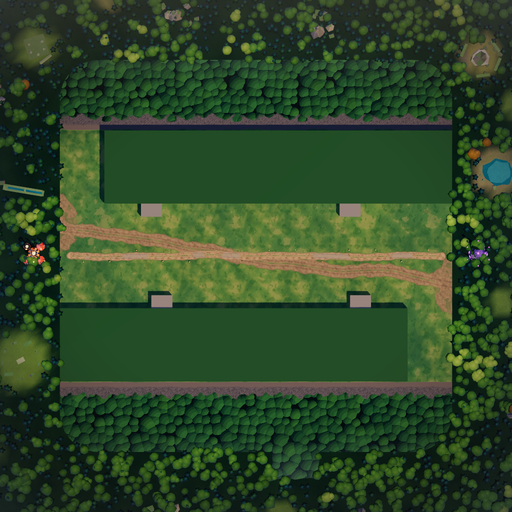
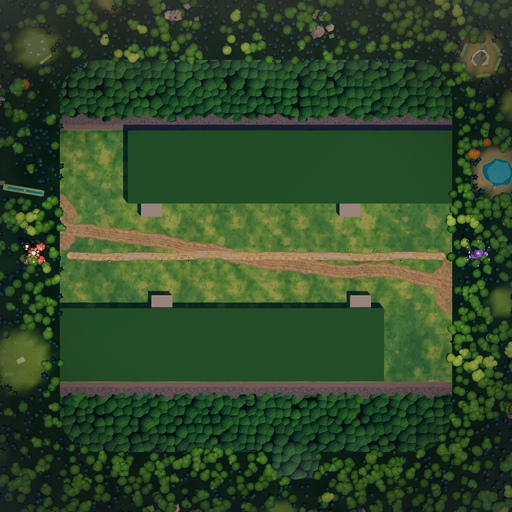
Ashwind Reach: Muster Pad clearing 28 x 34 m per seat (forest blocks trimmed, symmetry kept); Map Lab 97 / 0 FAIL; test_ws3_m1 checks tree jitter + canopy clearance

Changed region(s): [[0.1875, 0.2188, 0.25, 0.4062], [0.75, 0.5625, 0.8125, 0.75]]

diff --git a/docs/tools/world_forge/out/ashwind_reach/map_lab/scorecard.md b/docs/tools/world_forge/out/ashwind_reach/map_lab/scorecard.md
@@ -1,22 +1,22 @@
 # Map Lab: Ashwind Reach scorecard: world_forge_ashwind_reach
 
-2026-10-13 21:22 · lab v1.0 · 1.64 s · scanned 2 spots
+2026-10-13 22:42 · lab v1.0 · 1.61 s · scanned 2 spots
 
 ## Result: **WARN** · score **97 / 100**
 
-0 FAIL · 1 WARN · 14 PASS · 6 info checks; findings: 0 FAIL, 16 WARN, 5 info
+0 FAIL · 1 WARN · 14 PASS · 6 info checks; findings: 0 FAIL, 14 WARN, 6 info
 
 ## Improve next
-1. **No navmesh islands** (WARN): island 3 at (-86.9, -33.9): 448.1 m² of ground-level navmesh cut off from the main area (y 0.50) -> a pocket closed by colliders: widen its gap or fill it (trees / rocks) (close or open the pocket) _(from N3 2 / 18 clean (0 FAIL, 16 WARN), 3 info)_
+1. **No navmesh islands** (WARN): island 3 at (-91.9, -33.9): 180.6 m² of ground-level navmesh cut off from the main area (y 0.50) -> a pocket closed by colliders: widen its gap or fill it (trees / rocks) (close or open the pocket) _(from N3 2 / 16 clean (0 FAIL, 14 WARN), 3 info)_
 2. **Open the heat map** (IDEA): heatmap.png shows where the shortest paths crowd: the red metres are the likely fights _(from H1)_
 3. **Combat heat from bot games** (IDEA): v2: feed Bot Lab / Replay Lab unit deaths into the heat map _(from lab idea)_
 
 ## Navmesh (reachability, islands)
 | # | Check | Result | Measured | Rule | Fix hint |
 |---|---|---|---|---|---|
-| N1 | Navmesh baked | PASS 100 | 155 polygons, main area 7699 m² (21 % of the 192 m map), ground y 0.50 | polygons > 0; main walkable area shown |  |
+| N1 | Navmesh baked | PASS 100 | 147 polygons, main area 8768 m² (24 % of the 192 m map), ground y 0.50 | polygons > 0; main walkable area shown |  |
 | N2 | Every spot reachable | PASS 100 | 2 / 2 clean | a path from the first keep ends within 1.0 m of each spot; spot <= 6 m from the navmesh |  |
-| N3 | No navmesh islands | **WARN** 39 | 2 / 18 clean (0 FAIL, 16 WARN), 3 info | ground-level components other than the main one < 2 m² | close or open the pocket |
+| N3 | No navmesh islands | **WARN** 39 | 2 / 16 clean (0 FAIL, 14 WARN), 3 info | ground-level components other than the main one < 2 m² | close or open the pocket |
 | R5 | Engine limits | PASS 100 | 0 half widths ok, 0 arms ok, 0 circles ok, 0 segments ok, 192 x 96 m ok, 2 spots ok, 1.28x ok | one half width, <= 2 arms, <= 4 circles, <= 16 segments, <= 192 m, <= 140 spots, raster <= 2.5x CH |  |
 | R6 | Mission marks / triggers / paths reachable | PASS 100 | 5 / 5 clean | every mark, trigger centre and path point reachable from the player's keep; spawns > 20 m from it |  |
 
@@ -26,7 +26,7 @@
 | M1 | Every live spot has its mirror twins | PASS 100 | 2 / 2 clean | same kind within 1.0 m of each symmetry image |  |
 | M4 | Spots meet the navmesh at mirrored points | PASS 100 | 2 / 2 clean | each spot's navmesh point vs its twin's, mirrored back: <= 1 m |  |
 | M2 | Spot constants mirror | PASS 100 | 0 / 0 clean | every position constant of preview_level.gd: all entries have a twin under each symmetry (+-0.05 m) with the same kind / sizes / timings, or the list is one-sided (mirrored in code) |  |
-| M3 | Navmesh mirrors itself | PASS 100 | 0.03 % (40 cells) | cells walkable on one side only (1-cell edge noise ignored): WARN > 0.3 %, FAIL > 2 % |  |
+| M3 | Navmesh mirrors itself | PASS 100 | 0.04 % (54 cells) | cells walkable on one side only (1-cell edge noise ignored): WARN > 0.3 %, FAIL > 2 % |  |
 
 ## Path fairness (navmesh path lengths between every pair of spots)
 | # | Check | Result | Measured | Rule | Fix hint |
@@ -59,28 +59,26 @@
 ## Findings (FAIL and WARN)
 | Sev | Check | Where | What | Fix |
 |---|---|---|---|---|
-| WARN | N3 | island 3 at (-86.9, -33.9) | 448.1 m² of ground-level navmesh cut off from the main area (y 0.50) | a pocket closed by colliders: widen its gap or fill it (trees / rocks) |
-| WARN | N3 | island 4 at (-52.9, -33.9) | 234.1 m² of ground-level navmesh cut off from the main area (y 0.50) | a pocket closed by colliders: widen its gap or fill it (trees / rocks) |
-| WARN | N3 | island 5 at (-23.9, -33.9) | 1250.6 m² of ground-level navmesh cut off from the main area (y 0.50) | a pocket closed by colliders: widen its gap or fill it (trees / rocks) |
-| WARN | N3 | island 6 at (24.1, -33.9) | 1250.6 m² of ground-level navmesh cut off from the main area (y 0.50) | a pocket closed by colliders: widen its gap or fill it (trees / rocks) |
-| WARN | N3 | island 7 at (72.1, -33.9) | 1250.6 m² of ground-level navmesh cut off from the main area (y 0.50) | a pocket closed by colliders: widen its gap or fill it (trees / rocks) |
-| WARN | N3 | island 8 at (-92.9, 0.1) | 184.1 m² of ground-level navmesh cut off from the main area (y 0.50) | a pocket closed by colliders: widen its gap or fill it (trees / rocks) |
-| WARN | N3 | island 9 at (-39.9, -17.4) | 25.3 m² of ground-level navmesh cut off from the main area (y 0.50) | a pocket closed by colliders: widen its gap or fill it (trees / rocks) |
-| WARN | N3 | island 10 at (36.1, -17.4) | 25.3 m² of ground-level navmesh cut off from the main area (y 0.50) | a pocket closed by colliders: widen its gap or fill it (trees / rocks) |
-| WARN | N3 | island 11 at (93.1, 0.1) | 184.1 m² of ground-level navmesh cut off from the main area (y 0.50) | a pocket closed by colliders: widen its gap or fill it (trees / rocks) |
-| WARN | N3 | island 16 at (-35.9, 17.6) | 25.3 m² of ground-level navmesh cut off from the main area (y 0.50) | a pocket closed by colliders: widen its gap or fill it (trees / rocks) |
-| WARN | N3 | island 17 at (40.1, 17.6) | 25.3 m² of ground-level navmesh cut off from the main area (y 0.50) | a pocket closed by colliders: widen its gap or fill it (trees / rocks) |
-| WARN | N3 | island 18 at (-71.9, 34.0) | 1238.9 m² of ground-level navmesh cut off from the main area (y 0.50) | a pocket closed by colliders: widen its gap or fill it (trees / rocks) |
-| WARN | N3 | island 19 at (-23.9, 34.0) | 1238.9 m² of ground-level navmesh cut off from the main area (y 0.50) | a pocket closed by colliders: widen its gap or fill it (trees / rocks) |
-| WARN | N3 | island 20 at (24.1, 34.0) | 1238.9 m² of ground-level navmesh cut off from the main area (y 0.50) | a pocket closed by colliders: widen its gap or fill it (trees / rocks) |
-| WARN | N3 | island 21 at (53.1, 34.0) | 231.9 m² of ground-level navmesh cut off from the main area (y 0.50) | a pocket closed by colliders: widen its gap or fill it (trees / rocks) |
-| WARN | N3 | island 22 at (87.1, 34.0) | 443.9 m² of ground-level navmesh cut off from the main area (y 0.50) | a pocket closed by colliders: widen its gap or fill it (trees / rocks) |
+| WARN | N3 | island 3 at (-91.9, -33.9) | 180.6 m² of ground-level navmesh cut off from the main area (y 0.50) | a pocket closed by colliders: widen its gap or fill it (trees / rocks) |
+| WARN | N3 | island 4 at (-24.4, -33.9) | 1277.3 m² of ground-level navmesh cut off from the main area (y 0.50) | a pocket closed by colliders: widen its gap or fill it (trees / rocks) |
+| WARN | N3 | island 5 at (24.1, -33.9) | 1250.6 m² of ground-level navmesh cut off from the main area (y 0.50) | a pocket closed by colliders: widen its gap or fill it (trees / rocks) |
+| WARN | N3 | island 6 at (72.1, -33.9) | 1250.6 m² of ground-level navmesh cut off from the main area (y 0.50) | a pocket closed by colliders: widen its gap or fill it (trees / rocks) |
+| WARN | N3 | island 7 at (-92.9, 0.1) | 184.1 m² of ground-level navmesh cut off from the main area (y 0.50) | a pocket closed by colliders: widen its gap or fill it (trees / rocks) |
+| WARN | N3 | island 8 at (-39.9, -17.4) | 25.3 m² of ground-level navmesh cut off from the main area (y 0.50) | a pocket closed by colliders: widen its gap or fill it (trees / rocks) |
+| WARN | N3 | island 9 at (36.1, -17.4) | 25.3 m² of ground-level navmesh cut off from the main area (y 0.50) | a pocket closed by colliders: widen its gap or fill it (trees / rocks) |
+| WARN | N3 | island 10 at (93.1, 0.1) | 184.1 m² of ground-level navmesh cut off from the main area (y 0.50) | a pocket closed by colliders: widen its gap or fill it (trees / rocks) |
+| WARN | N3 | island 15 at (-35.9, 17.6) | 25.3 m² of ground-level navmesh cut off from the main area (y 0.50) | a pocket closed by colliders: widen its gap or fill it (trees / rocks) |
+| WARN | N3 | island 16 at (40.1, 17.6) | 25.3 m² of ground-level navmesh cut off from the main area (y 0.50) | a pocket closed by colliders: widen its gap or fill it (trees / rocks) |
+| WARN | N3 | island 17 at (-71.9, 34.0) | 1238.9 m² of ground-level navmesh cut off from the main area (y 0.50) | a pocket closed by colliders: widen its gap or fill it (trees / rocks) |
+| WARN | N3 | island 18 at (-23.9, 34.0) | 1238.9 m² of ground-level navmesh cut off from the main area (y 0.50) | a pocket closed by colliders: widen its gap or fill it (trees / rocks) |
+| WARN | N3 | island 19 at (24.6, 34.0) | 1265.4 m² of ground-level navmesh cut off from the main area (y 0.50) | a pocket closed by colliders: widen its gap or fill it (trees / rocks) |
+| WARN | N3 | island 20 at (92.1, 34.0) | 178.9 m² of ground-level navmesh cut off from the main area (y 0.50) | a pocket closed by colliders: widen its gap or fill it (trees / rocks) |
 
 ## Spot navmesh points (half_turn)
 | Spot | Kind | Position | On navmesh at | Twin | Twin's point, mirrored back | Gap |
 |---|---|---|---|---|---|---|
-| keep_t0 | keep | (-84.0, 0.0) | (-82.4, -3.4) | keep_t1 | (-81.9, -3.6) | 0.6 |
-| keep_t1 | keep | (84.0, 0.0) | (81.9, 3.6) | keep_t0 | (82.4, 3.4) | 0.6 |
+| keep_t0 | keep | (-84.0, 0.0) | (-80.4, -0.1) | keep_t1 | (-80.4, -0.1) | 0.0 |
+| keep_t1 | keep | (84.0, 0.0) | (80.4, 0.1) | keep_t0 | (80.4, 0.1) | 0.0 |
 
 
 ## Spot constants (0)
@@ -91,55 +89,56 @@
 ## Keep to nearest spot by kind (navmesh path, m)
 | From keep | nearest expansion | nearest point | nearest camp | nearest lair | nearest tavern | nearest post | nearest peddler | nearest cache | nearest crown | enemy keep |
 |---|---|---|---|---|---|---|---|---|---|---|
-| west | - | - | - | - | - | - | - | - | - | 164.4 |
-| east | - | - | - | - | - | - | - | - | - | 164.4 |
+| west | - | - | - | - | - | - | - | - | - | 160.8 |
+| east | - | - | - | - | - | - | - | - | - | 160.8 |
 
 
 ## Every spot from the keeps (half_turn)
 | Spot | Kind | From keep_t0 | Twin | From keep_t1 | Diff |
 |---|---|---|---|---|---|
-| keep_t1 | keep | 164.4 | keep_t0 | 164.4 | +0.0 % |
+| keep_t1 | keep | 160.8 | keep_t0 | 160.8 | +0.0 % |
 
 
 ## Travel times per seat (m:ss from the keep; terrain speed costs not included)
 | Seat | Destination | Path (m) | Ford (m) | worker (4.6 m/s) | soldier (5.0 m/s) | cavalry (7.5 m/s) | caravan (4.0 m/s) |
 |---|---|---|---|---|---|---|---|
-| west | enemy keep (keep_t1) | 164.4 | 0.0 | 0:36 | 0:33 | 0:22 | 0:41 |
-| east | enemy keep (keep_t0) | 164.4 | 0.0 | 0:36 | 0:33 | 0:22 | 0:41 |
+| west | enemy keep (keep_t1) | 160.8 | 0.0 | 0:35 | 0:32 | 0:21 | 0:40 |
+| east | enemy keep (keep_t0) | 160.8 | 0.0 | 0:35 | 0:32 | 0:21 | 0:40 |
 
 
 ## Main routes: narrowest corridors (navmesh width; real gap ~ +1.0 m)
 | Route | Length | Narrowest (navmesh m) | At | Chokes < 3 m |
 |---|---|---|---|---|
-| keep_t0 -> keep_t1 | 164.4 | 28.8 | (-37.4, -1.5) | - |
+| keep_t0 -> keep_t1 | 160.8 | 28.8 | (-39.4, -0.1) | - |
 
 
 ## Hottest metres (every spot-pair shortest path, 1 paths)
 | # | Where (x, z) | Shortest paths through this metre | Share |
 |---|---|---|---|
-| 1 | (20.5, 1.5) | 1 | 100 % |
-| 2 | (28.5, 1.5) | 1 | 100 % |
-| 3 | (36.5, 1.5) | 1 | 100 % |
-| 4 | (-0.5, 0.5) | 1 | 100 % |
-| 5 | (7.5, 0.5) | 1 | 100 % |
-| 6 | (61.5, 2.5) | 1 | 100 % |
-| 7 | (69.5, 3.5) | 1 | 100 % |
-| 8 | (77.5, 3.5) | 1 | 100 % |
-| 9 | (44.5, 2.5) | 1 | 100 % |
-| 10 | (52.5, 2.5) | 1 | 100 % |
+| 1 | (20.5, 0.5) | 1 | 100 % |
+| 2 | (28.5, 0.5) | 1 | 100 % |
+| 3 | (36.5, 0.5) | 1 | 100 % |
+| 4 | (0.5, 0.5) | 1 | 100 % |
+| 5 | (8.5, 0.5) | 1 | 100 % |
+| 6 | (61.5, 0.5) | 1 | 100 % |
+| 7 | (69.5, 0.5) | 1 | 100 % |
+| 8 | (77.5, 0.5) | 1 | 100 % |
+| 9 | (44.5, 0.5) | 1 | 100 % |
+| 10 | (52.5, 0.5) | 1 | 100 % |
 
 
-## Info findings (5)
+## Info findings (6)
 | Check | Where | What |
 |---|---|---|
-| N3 | island 14 at (-83.9, 0.1) | 22.6 m² inside the footprint of keep_t0 (unreachable by design) |
-| N3 | island 15 at (84.1, 0.1) | 22.6 m² inside the footprint of keep_t1 (unreachable by design) |
-| N3 | raised islands | 4 islands on top of colliders (444 m², more than 0.3 m above / below the ground navmesh): harmless |
-| M3 | 4 m tile at (82.0, -2.0) | 12 cells (0.8 m²) walkable on one side only (half_turn) |
-| M3 | 4 m tile at (-82.0, 2.0) | 12 cells (0.8 m²) walkable on one side only (half_turn) |
+| N3 | island 13 at (-83.9, 0.1) | 22.6 m² inside the footprint of keep_t0 (unreachable by design) |
+| N3 | island 14 at (84.1, 0.1) | 22.6 m² inside the footprint of keep_t1 (unreachable by design) |
+| N3 | raised islands | 4 islands on top of colliders (363 m², more than 0.3 m above / below the ground navmesh): harmless |
+| M3 | 4 m tile at (-82.0, 2.0) | 13 cells (0.8 m²) walkable on one side only (half_turn) |
+| M3 | 4 m tile at (82.0, -2.0) | 11 cells (0.7 m²) walkable on one side only (half_turn) |
+| M3 | 4 m tile at (-86.0, -2.0) | 9 cells (0.6 m²) walkable on one side only (half_turn) |
 
 ## Notes
-- Octile grid shortest paths (0.5 m, 2 sources) 0.22 s.
+- Octile grid shortest paths (0.5 m, 2 sources) 0.24 s.
 - Map Lab v2 (map-production.md 2.5): layout ashwind_reach, 2 seats, rules none, 0 fixable findings.
-- Navmesh raster 0.48 s (155 polygons, 589824 cells of 0.25 m), spot / mirror checks 0.32 s, 1 paths 0.00 s.
+- Navmesh raster 0.46 s (147 polygons, 589824 cells of 0.25 m), spot / mirror checks 0.31 s, 1 paths 0.00 s.
 - Map Ashwind Reach, scene res://docs/tools/world_forge/out/ashwind_reach/preview.tscn, sim mode off; level load + navmesh bake 0.1 s (15 frames), lab 1.5 s. Spec: docs/design/wave-strike.md.

diff --git a/docs/tools/world_forge/out/ashwind_reach/report_map.md b/docs/tools/world_forge/out/ashwind_reach/report_map.md
@@ -1,6 +1,6 @@
 # world_forge map: ashwind_reach
 
-2026-10-13 21:22:27 - `tools/world_forge/run_world_forge.ps1 map ashwind_reach` - hash `52c29789ee8d/1b99de566291`
+2026-10-13 22:42:39 - `tools/world_forge/run_world_forge.ps1 map ashwind_reach` - hash `483a63eb5a4e/1b99de566291`
 
 ## Result: **PASS** - quality **100 / 100** (previous run 100, +0)
 
@@ -14,12 +14,12 @@
 | L1 | One keep per seat | PASS 100 | 2 keeps, 2 seats | each seat's frame maps the canonical keep onto that seat |  |
 | L2 | Spots inside the map | PASS 100 | ok | /x/ <= W/2 - 2, /z/ <= D/2 - 2 (192 x 96 m) |  |
 | L3 | Spot spacing | PASS 100 | ok | >= 3 m between spots, >= 6 m between structures (keep, tavern, peddler, post, guild, point), one den + one lodge per image (slots / starts excepted) |  |
-| L4 | Spot counts | INFO | keep 2, start 2, slot 20; crossings 0, roads 2, zones 2, blocks 16 | compare with the design doc's count table |  |
+| L4 | Spot counts | INFO | keep 2, start 2, slot 20; crossings 0, roads 2, zones 2, blocks 14 | compare with the design doc's count table |  |
 
 ## Navmesh
 | # | Check | Result | Measured | Rule | Fix hint |
 |---|---|---|---|---|---|
-| N0 | Navmesh bakes | PASS 100 | 155 polygons in 0.1 s | the preview navmesh is ready: baked (flat ground, river / moat / keeps / blocks / forest as obstacles) or loaded from `navmesh` lines |  |
+| N0 | Navmesh bakes | PASS 100 | 147 polygons in 0.1 s | the preview navmesh is ready: baked (flat ground, river / moat / keeps / blocks / forest as obstacles) or loaded from `navmesh` lines |  |
 
 ## Map Lab
 | # | Check | Result | Measured | Rule | Fix hint |
@@ -28,7 +28,7 @@
 | LAB.M1 | Every live spot has its mirror twins | PASS 100 | 2 / 2 clean | Map Lab M1 |  |
 | LAB.M4 | Spots meet the navmesh at mirrored points | PASS 100 | 2 / 2 clean | Map Lab M4 |  |
 | LAB.M2 | Spot constants mirror | PASS 100 | 0 / 0 clean | Map Lab M2 |  |
-| LAB.M3 | Navmesh mirrors itself | PASS 100 | 0.03 % (40 cells) | Map Lab M3 |  |
+| LAB.M3 | Navmesh mirrors itself | PASS 100 | 0.04 % (54 cells) | Map Lab M3 |  |
 | LAB.F1 | Map geometry: path pairs match their mirror twins | PASS 100 | 1 / 1 pairs within 2 % (0 FAIL, 0 WARN, 0 info) | Map Lab F1 |  |
 | LAB.R4 | Clearances (roads, crossings, spacing) | PASS 100 | 2 / 2 clean | Map Lab v2 R4 |  |
 | LAB.R5 | Engine limits | PASS 100 | 0 half widths ok, 0 arms ok, 0 circles ok, 0 segments ok, 192 x 96 m ok, 2 spots ok, 1.28x ok | Map Lab v2 R5 |  |
